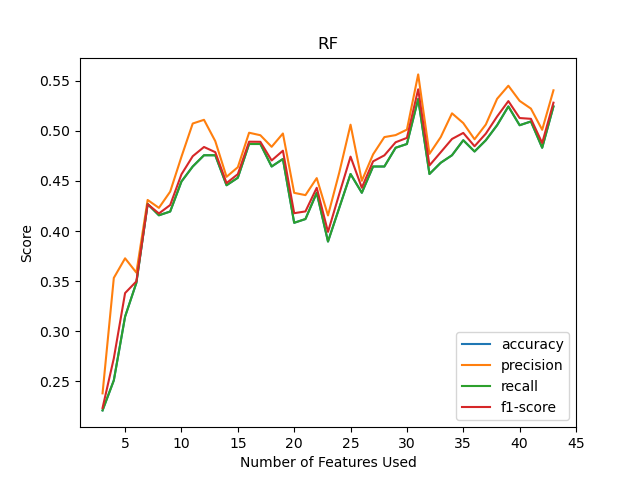
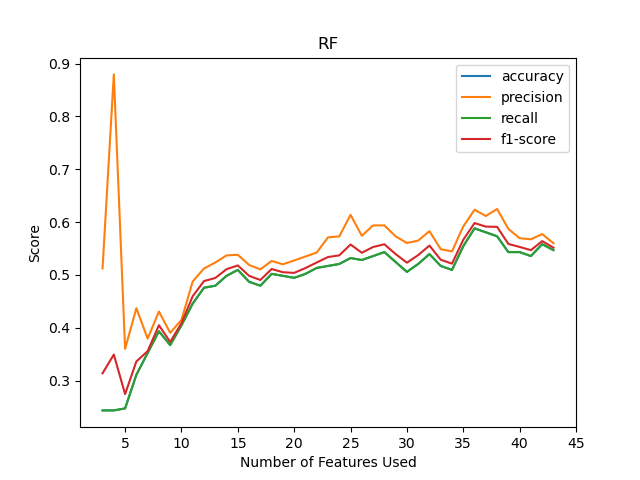
update knn

diff --git a/knn.py b/knn.py
@@ -46,22 +46,23 @@ X, y = oversample.fit_resample(X, y)
 
 #list of features in order of importance determined by SBS feature selection
 sbs_features = ['sex', 'age', 'address', 'famsize', 'Pstatus', 'Medu', 'Fedu',
-       'traveltime', 'studytime', 'failures', 'schoolsup', 'famsup', 'paid',
-       'activities', 'higher', 'internet', 'romantic', 'famrel', 'freetime',
-       'goout', 'Dalc', 'health', 'Mjob_at_home', 'Mjob_health', 'Mjob_other',
-       'Mjob_services', 'Fjob_at_home', 'Fjob_teacher', 'reason_course',
-       'reason_home', 'reason_other', 'reason_reputation', 'guardian_mother']
+       'traveltime', 'failures', 'schoolsup', 'paid', 'activities', 'nursery',
+       'higher', 'romantic', 'freetime', 'goout', 'Dalc', 'Walc', 'health',
+       'absences', 'Mjob_at_home', 'Mjob_other', 'Mjob_services',
+       'Mjob_teacher', 'Fjob_at_home', 'Fjob_health', 'Fjob_services',
+       'reason_home', 'reason_reputation', 'guardian_mother', 'guardian_other',
+       'scores']
 
 
 #list of features in order of importance determined by RF feature selection
-rf_features = ['absences', 'health', 'Medu', 'freetime', 'age', 'goout', 'famrel', 
-               'Fedu', 'Walc', 'studytime', 'nursery', 'failures', 'Mjob_other',                      
-               'famsup', 'paid', 'Fjob_other', 'sex', 'famsize', 'guardian_mother', 
-               'activities', 'traveltime', 'Dalc', 'romantic', 'reason_course', 'internet',
-               'Mjob_services', 'address', 'Pstatus', 'reason_reputation', 'schoolsup',
-               'Fjob_services', 'guardian_father', 'reason_home', 'school', 'Mjob_teacher', 
-               'Mjob_at_home', 'Mjob_health', 'Fjob_teacher', 'reason_other', 'Fjob_at_home', 
-               'higher', 'guardian_other', 'Fjob_health']      
+rf_features = ['Fjob_teacher', 'sex', 'higher', 'guardian_other', 'Medu', 'Mjob_services', 'nursery', 
+               'guardian_father', 'studytime', 'freetime', 'famrel', 'internet', 'activities',                      
+               'Pstatus', 'Mjob_health', 'absences', 'guardian_mother', 'Walc', 'health', 
+               'Dalc', 'address', 'age', 'goout', 'school', 'Mjob_at_home',
+               'Fedu', 'famsize', 'paid', 'Fjob_at_home', 'traveltime',
+               'famsup', 'Fjob_health', 'romantic', 'reason_reputation', 'reason_home', 
+               'failures', 'reason_other', 'Mjob_other', 'Fjob_other', 'reason_course', 
+               'Fjob_services', 'Mjob_teacher', 'schoolsup']      
          
 
 #split into testing and training set
@@ -193,8 +194,8 @@ for name, features in zip(["RF", "SBS"], [rf_features, sbs_features]):
 
 
 #Create final model and confusion matrix
-X_train_new = X_train[X_train.columns.intersection(rf_features[:18])]
-X_test_new = X_test[X_test.columns.intersection(rf_features[:18])]
+X_train_new = X_train[X_train.columns.intersection(rf_features)]
+X_test_new = X_test[X_test.columns.intersection(rf_features)]
 
 X_train_std = stdsc.fit_transform(X_train_new)
 X_test_std = stdsc.transform(X_test_new)
